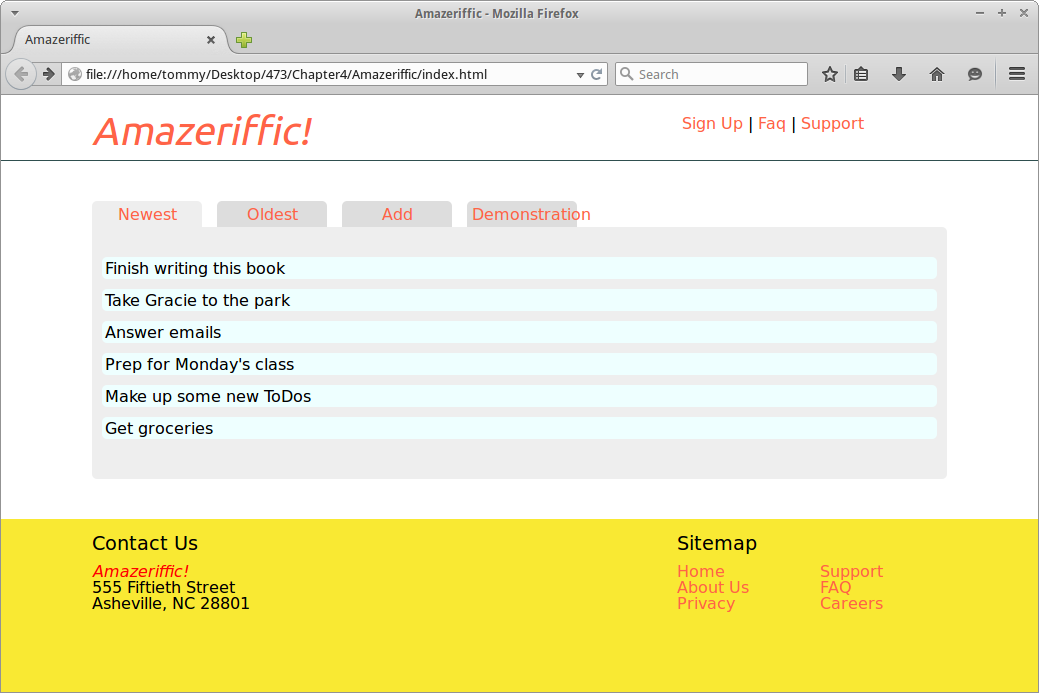
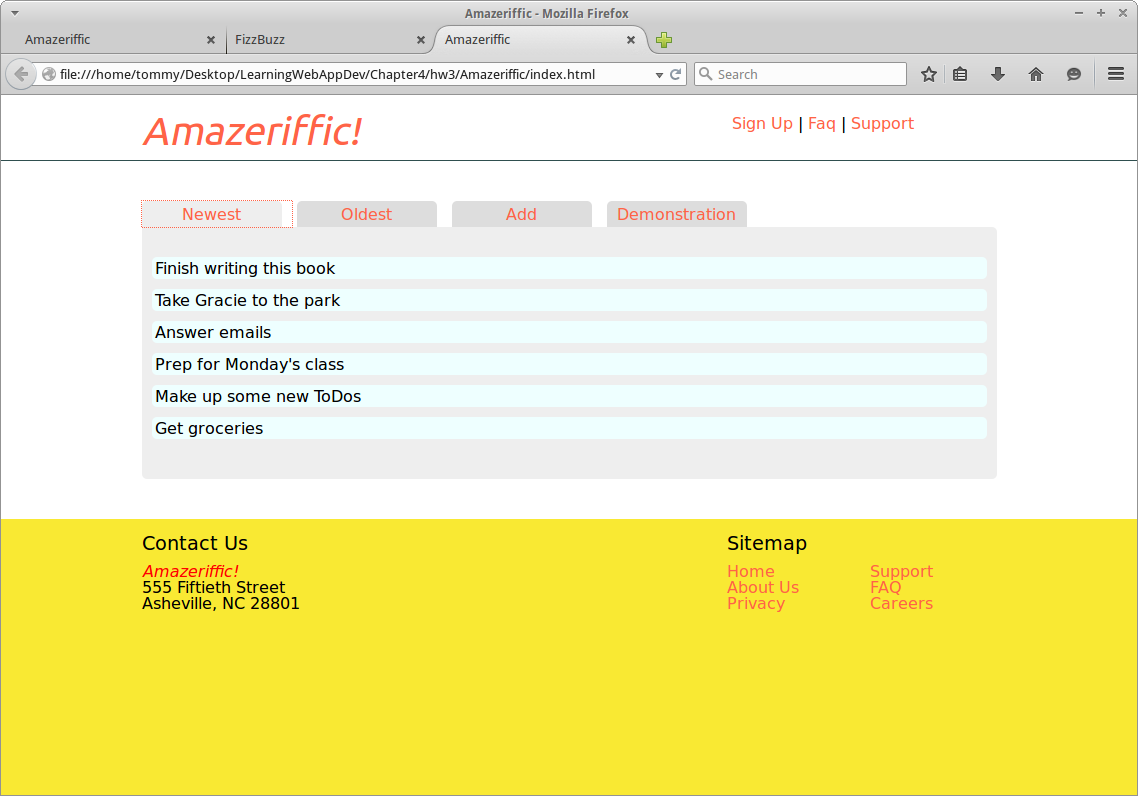
fixed fizzbuzz (added title to index.html)

diff --git a/Chapter4/hw3/Amazeriffic/style.css b/Chapter4/hw3/Amazeriffic/style.css
@@ -74,7 +74,7 @@ main .question{
 .tabs a span {
 	display: inline-block;
 	border-radius: 5px 5px 0 0;
-	width: 120px;
+	width: 130px;
 	margin-right: 10px;
 	text-align: center;
 	background: #ddd;

diff --git a/Chapter4/hw3/colorbox/index.html b/Chapter4/hw3/colorbox/index.html
@@ -10,6 +10,7 @@
             });
 
         </script>
+        <title>FizzBuzz</title>
     </head>
     <body>
         <h2>Slideshow</h2>
